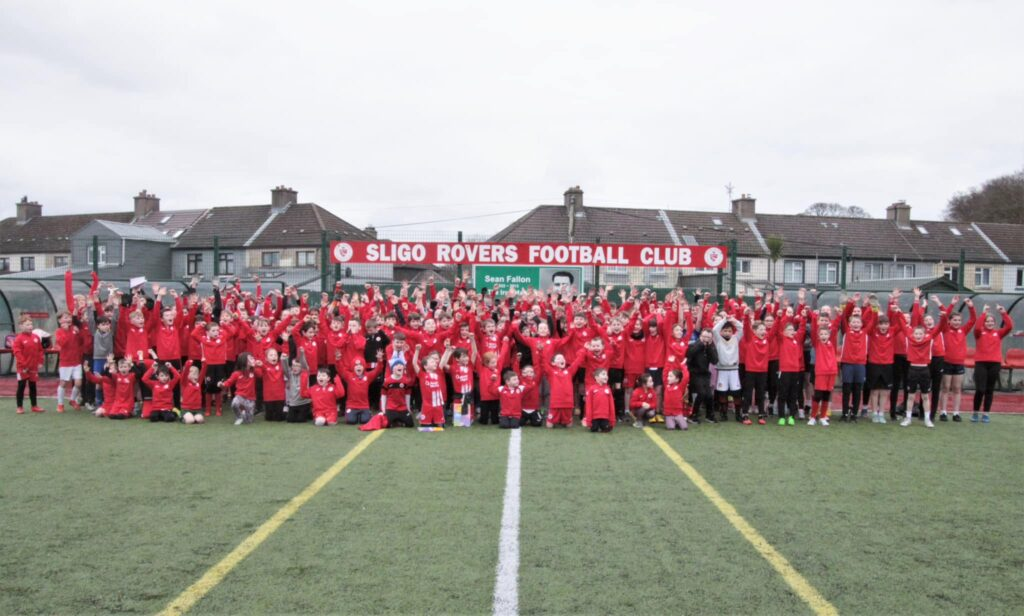
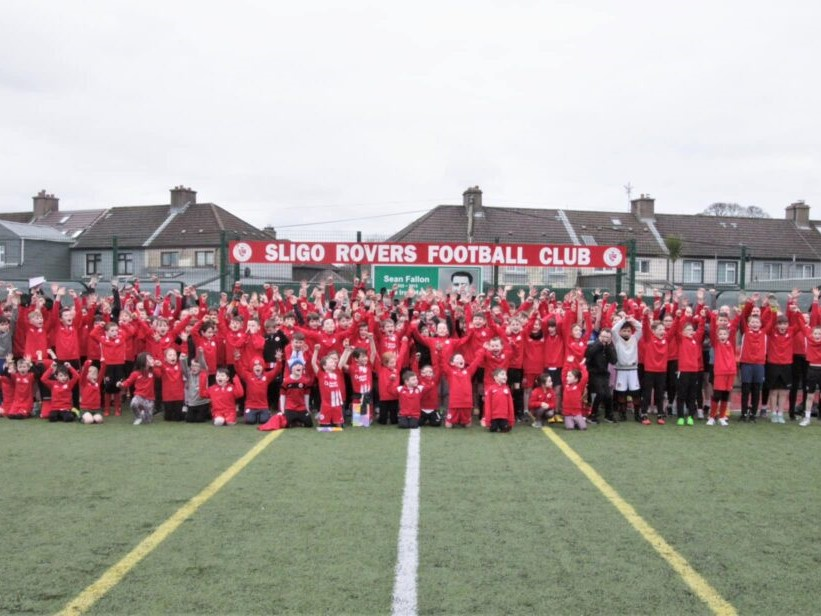
General Updates

diff --git a/Stadium.html b/Stadium.html
@@ -31,14 +31,14 @@
         <p>
             Sligo Rovers have today published a detailed Master plan, including a proposed multi-million euro redevelopment of the Showgrounds stadium with the creation of an academy hub for the north-west region of the country. The redeveloped Showgrounds would have a seated capacity of 6000, surpassing all the requirements of a UEFA Category 3 stadium. New floodlights, turnstiles, hospitality spaces, shops, corporate and sponsors facilities, offices, meeting rooms, upgraded media facilities, multiple changing rooms and a gym would be part of the redevelopment.
         </p>
-        <img src="Images/New_Stadium.jpg" style="float: left;">
-        <img src="Images/New_Front.png" style="float: right;">
+        <img class="masterplanImages" src="Images/New_Stadium.jpg" style="float: left;">
+        <img class="masterplanImages" src="Images/New_Front.png" style="float: right;">
     </aside>
     <aside style="float: left; margin-bottom: 90px; margin-left: 0.5%;">
         <h1>
             In the Showgrounds, there is a wall of important people to the club behind the main stand
         </h1>
-        <iframe width="100%" height="100%" src="https://www.youtube.com/embed/J1sKtZK_1Pw?si=c_ptoimp7U0yXY3K" title="YouTube video player" frameborder="0" allow="accelerometer; autoplay; clipboard-write; encrypted-media; gyroscope; picture-in-picture; web-share" allowfullscreen></iframe>        </iframe>
+        <iframe id="video" width="100%" height="100%" src="https://www.youtube.com/embed/J1sKtZK_1Pw?si=c_ptoimp7U0yXY3K" title="YouTube video player" frameborder="0" allow="accelerometer; autoplay; clipboard-write; encrypted-media; gyroscope; picture-in-picture; web-share" allowfullscreen></iframe>        </iframe>
     </aside>
     <aside style="float: right; margin-bottom: 90px; margin-right: 0.5%;">
         <iframe src="https://www.google.com/maps/embed?pb=!1m18!1m12!1m3!1d3147.5397702742293!2d-8.486422608758346!3d54.26967658121247!2m3!1f0!2f0!3f0!3m2!1i1024!2i768!4f13.1!3m3!1m2!1s0x485ee834520d6735%3A0x1bbac93efdde9a20!2sThe%20Showgrounds!5e1!3m2!1sen!2sie!4v1708905772932!5m2!1sen!2sie" width="100%" height="100%" style="border: 0" allowfullscreen="" loading="lazy" referrerpolicy="no-referrer-when-downgrade"></iframe>

diff --git a/index.html b/index.html
@@ -26,7 +26,7 @@
         <p>
             The 2024 season started off on the 16th of February. Sligo Rovers played Bohemians away at Dalymount Park. Bohemians won the FA Cup in 2023, so many people thought it would be an easy win for them, also considering that Sligo Rovers came 8th in the table last year. Bohemians scored first, but Sligo Rovers went 2-1 up at halftime. The game ended in a draw with many people thinking the Sligo side deserved the win. Sligo's second game was played back home in The Showgrounds, against the runners-up last year, Derry City. The match ended in a 0-0 draw, leaving Sligo with just 2 points at the end of the second week.
         </p>
-        <img src="/Images/Super_Reds.jpg">
+        <img src="/Images/Players.png">
     </aside>
     <aside style="float: right; margin-top: 280px; margin-right: 0.5%;">
         <h2>

diff --git a/Style/style.css b/Style/style.css
@@ -9,7 +9,7 @@ h2 {
 }
 
 aside {
-  width: calc(50% - .5% - .5%);
+  width: calc(50% - 1% - 1%);
   height: 45vh;
   border: 3px solid black;
   margin-bottom: 0.5%;
@@ -76,7 +76,18 @@ tr:nth-child(1) {
   background-color: gray;
 }
 
-aside img {
-  height:100%;
+.masterplanImages {
+  height: 50%;
   width: 50%;
+  max-height: 20vh;
+  overflow: hidden;
+}
+
+#video {
+  max-height: 35vh;
+}
+
+aside img {
+  width: 100%;
+  max-height: 20vh;
 }
